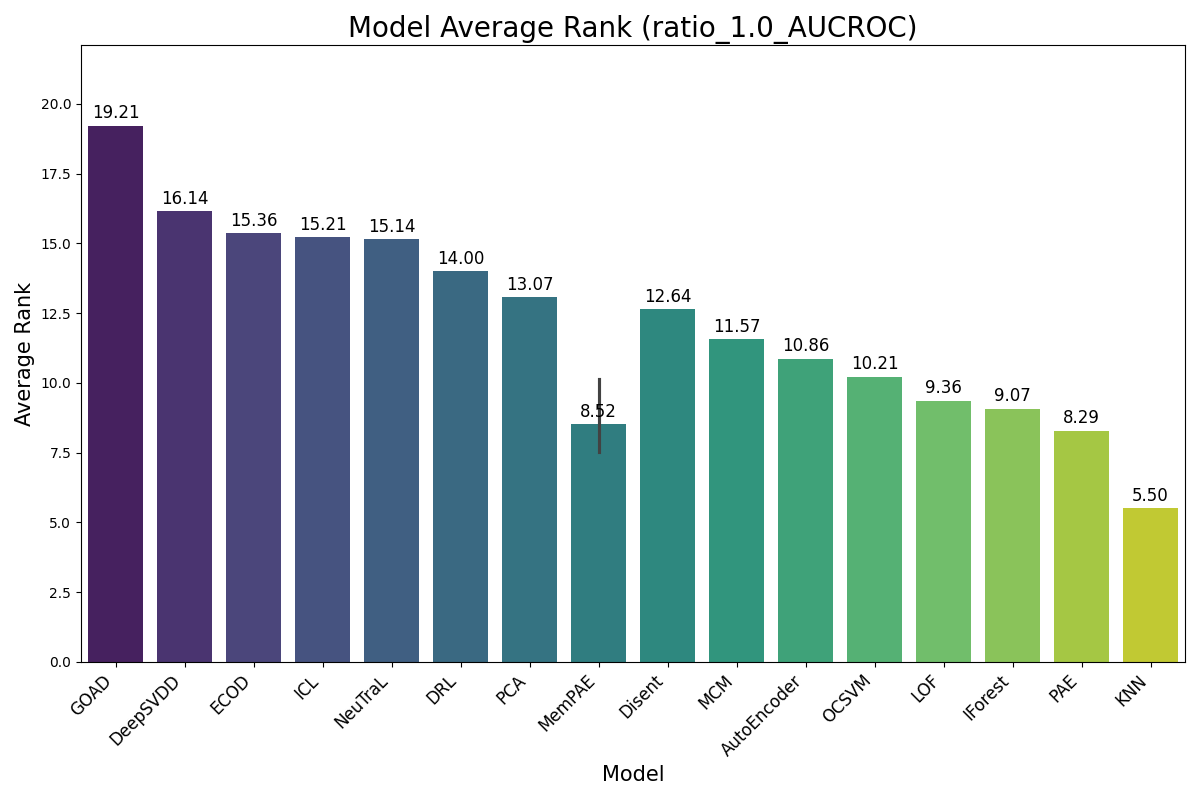
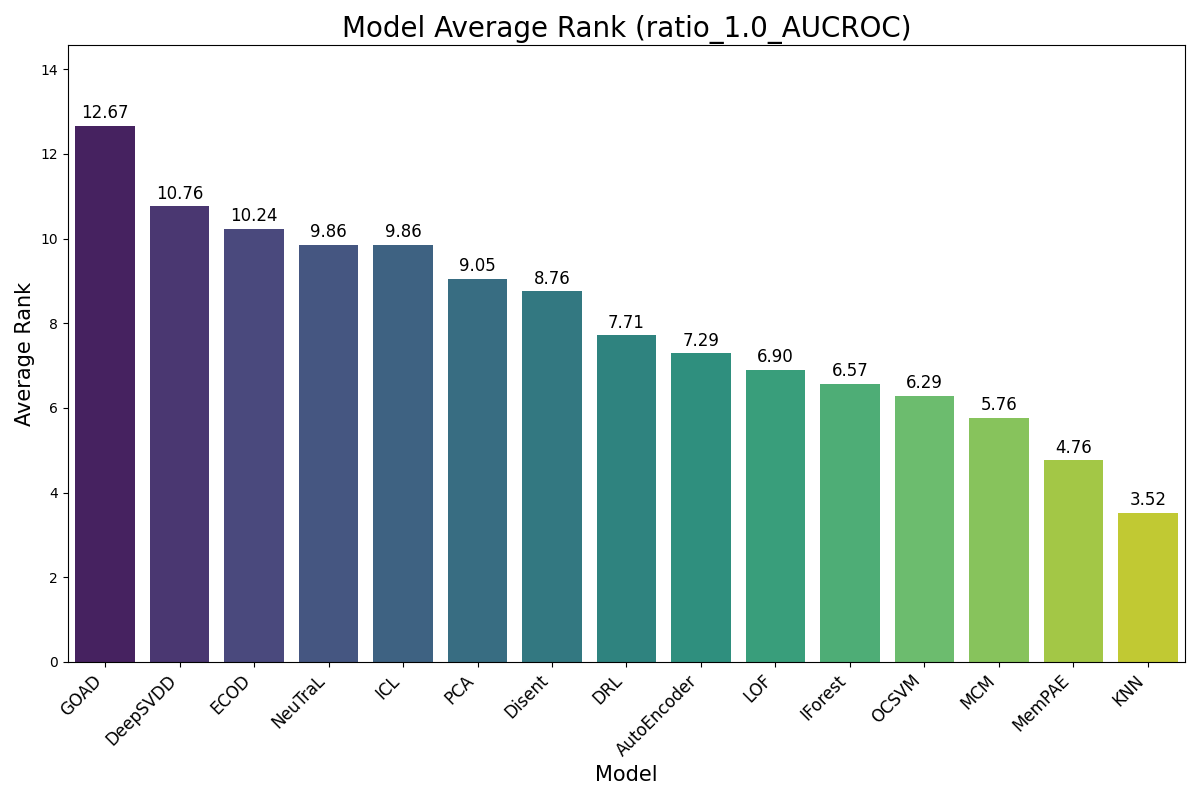
temp

diff --git a/summary.py b/summary.py
@@ -323,9 +323,11 @@ def render(
         df_mean.drop([row1_name, row2_name], inplace=True)
         df_std.drop([row1_name, row2_name], inplace=True)
 
+    df_mean.loc['MemPAE-ws-cross_attn-rin-pos_query+token-L2-d64-lr0.001', 'census'] = 0.2474
     df_mean.loc[:, 'AVG_AUC'] = df_mean.mean(axis=1, numeric_only=True)
     df_std.loc[:, 'AVG_AUC']  = df_std.mean(axis=1, numeric_only=True)
 
+    
     if add_avg_rank:
         if is_synthetic:
             plot_name = f'synthetic_{synthetic_type}_{base}'
@@ -438,34 +440,36 @@ def main(args):
         'arrhythmia', 'breastw', 'cardio', 'cardiotocography', 'glass',
         'ionosphere', 'pima', 'wbc', 'wine', 'thyroid',
         'optdigits', 'pendigits', 'satellite', 
-        # 'campaign', 
-        # 'mammography', 
-        # 'satimage-2', # middle
-        # 'nslkdd', # large 
-        # 'fraud', # large
-        # 'shuttle', # large
-        # 'census', # large
+        'campaign', 
+        'mammography', 
+        'satimage-2', # middle
+        'nslkdd', # large 
+        'fraud', # large
+        'shuttle', # large
+        'census', # large
     ]
     data.sort()
 
     my_models = [
         ##################################################################################
-        'PAE-ws-pos_query+token-d64-lr0.001', # Final architecture for PAE
+        # 'PAE-ws-pos_query+token-d64-lr0.001', # Final architecture for PAE
         # 'PAE-ws-d64-lr0.001', # Final architecture for PAE
         # 'PAE-L4-d64-lr0.001', # Final architecture for PAE
         # 'PAE-pos_query+token-d64-lr0.001', # Final architecture for PAE
         ##################################################################################
         # MemPAE with small memory Ablation
-        'MemPAE-ws-pos_query+token-d64-lr0.001-t0.1', # this is final
-        'MemPAE-pos_query+token-L4-d64-lr0.001-t0.1',
-        'MemPAE-ws-d64-lr0.001-t0.1', # tmux 0
-        'MemPAE-d64-lr0.001-t0.1', # tmux 1
+        # 'MemPAE-ws-pos_query+token-d64-lr0.001-t0.1', # this is final
+        # 'MemPAE-pos_query+token-L4-d64-lr0.001-t0.1',
+        # 'MemPAE-ws-d64-lr0.001-t0.1', # tmux 0
+        # 'MemPAE-d64-lr0.001-t0.1', # tmux 1
 
         ##################################################################################        
-        'MemPAE-ws-cross_attn-rin-pos_query+token-L4-d64-lr0.001', # possible
-        'MemPAE-ws-cross_attn-rin-pos_query+token-L3-d64-lr0.001', # possible
-
+        # 'MemPAE-ws-cross_attn-rin-pos_query+token-L4-d64-lr0.001', # possible
+        # 'MemPAE-ws-cross_attn-rin-pos_query+token-L3-d64-lr0.001', # possible
+        # 'MemPAE-ws-cross_attn-rin-L4-d64-lr0.001',
         'MemPAE-ws-cross_attn-rin-pos_query+token-L2-d64-lr0.001', # possible
+        # 'MemPAE-ws-cross_attn-rin-pos_query+token-L3-d64-lr0.001', # possible
+        # 'MemPAE-ws-cross_attn-rin-pos_query+token-L4-d64-lr0.001', # possible
 
         ##################################################################################        
         # 'MemPAE-ws-pos_query+token-large_mem-L4-d64-lr0.001-t0.1', # Final architecture for MemPAE
